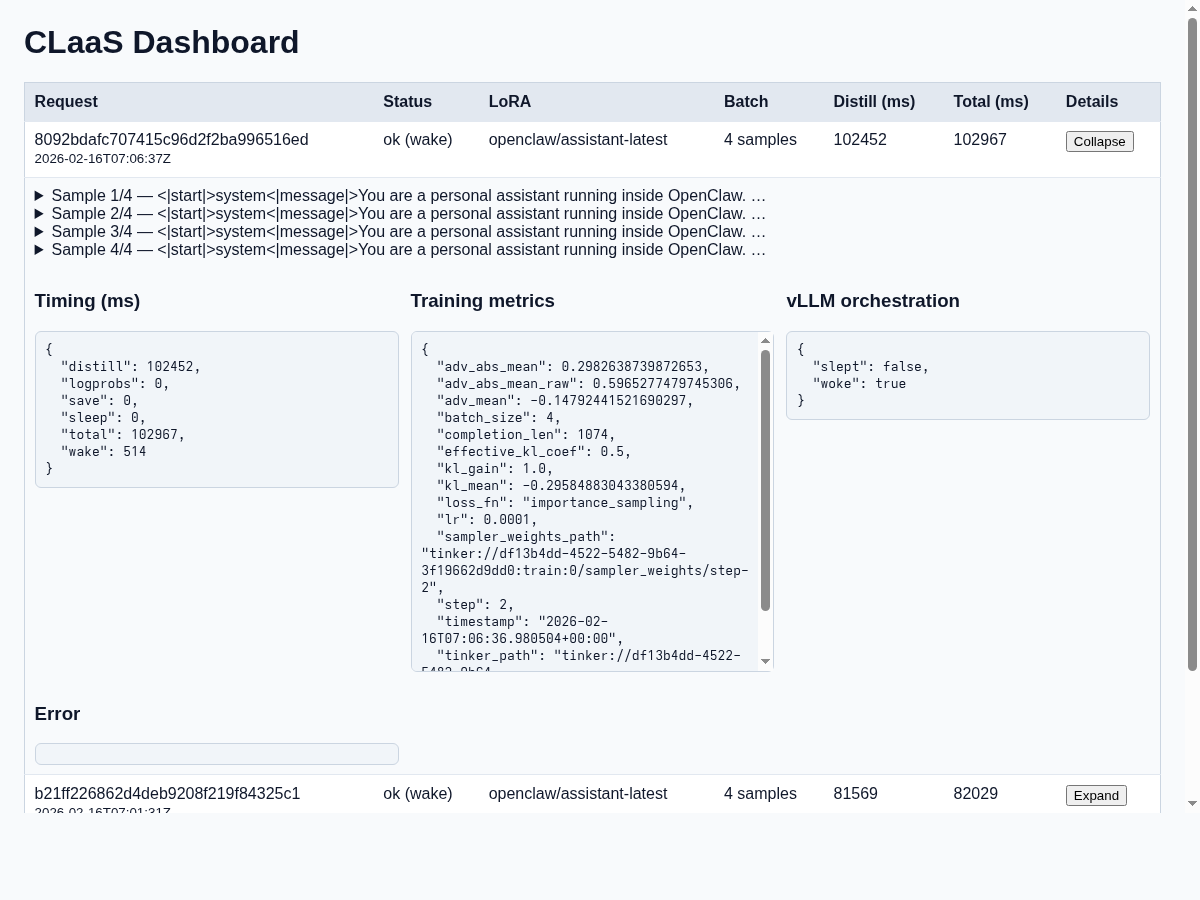
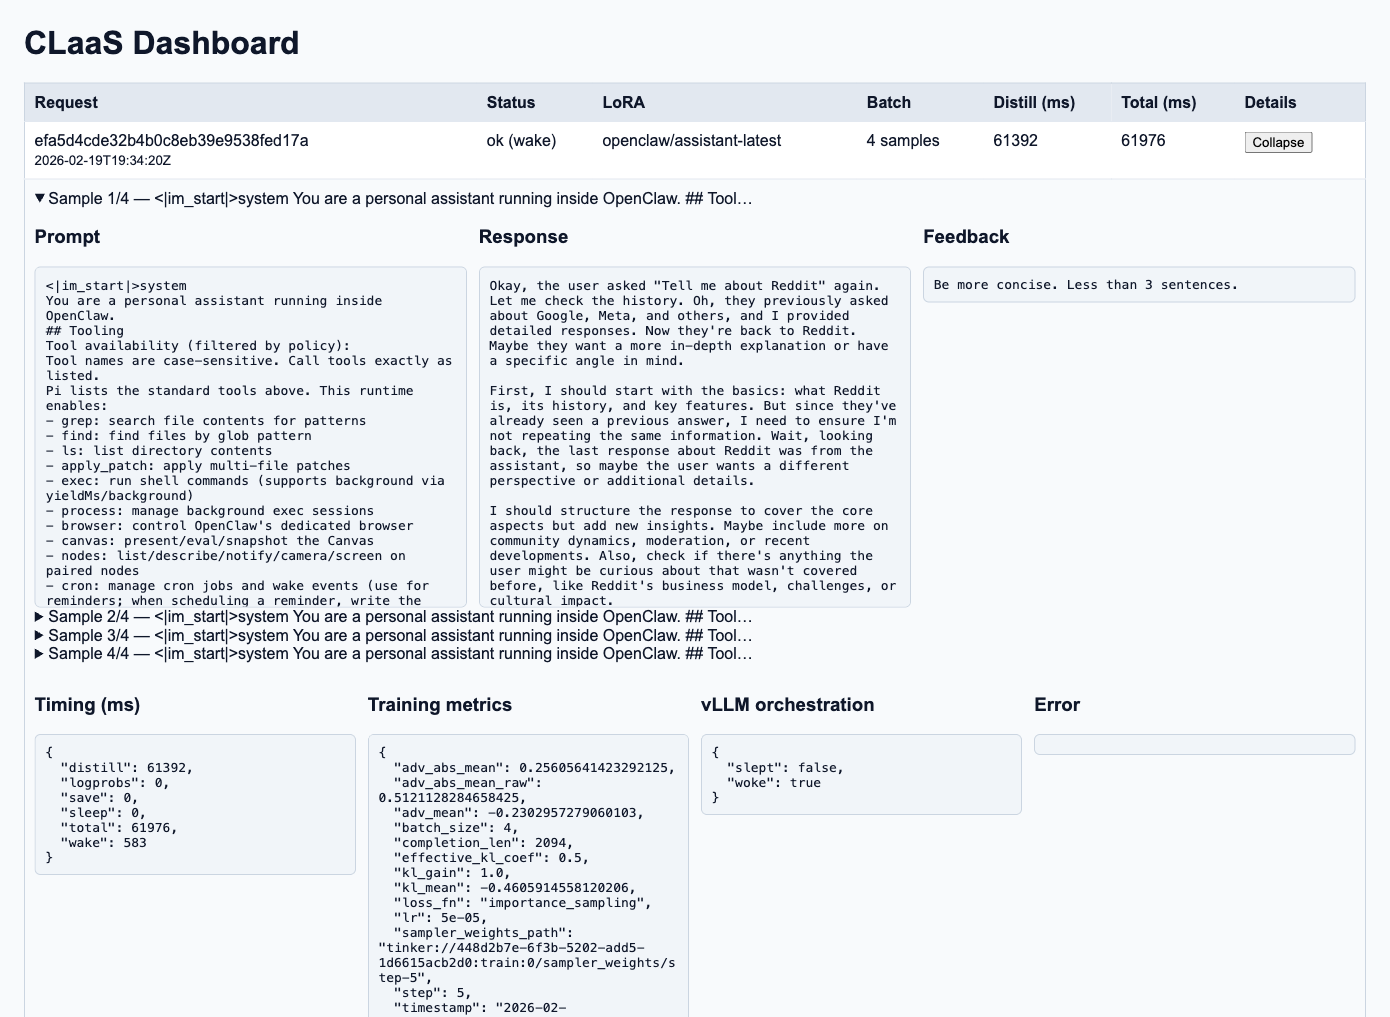
Update README with new images (#17)
## Summary
- Add Telegram demo screenshot (`telegram.png`) to the intro section of
the README
- Update `dashboard.png` with the latest screenshot
- Add eval dashboard image (`eval.png`) and `/v1/eval-dashboard`
endpoint reference below the dashboard section

## Test plan
- [ ] Verify all three images render correctly on GitHub
- [ ] Confirm no broken image links in README

🤖 Generated with [Claude Code](https://claude.com/claude-code)

---------

diff --git a/README.md b/README.md
@@ -6,6 +6,10 @@
 
 Continual learning as-a-service (CLaaS) via self-distillation for OpenClaw. Personalize the model weights of your OpenClaw assistant using text feedback without model collapse.
 
+<p align="center">
+  <img src="assets/telegram.png" alt="Telegram demo" width="400">
+</p>
+
 ## Hybrid engine
 
 The locally hosted request path is driven by a hybrid engine that switches between:
@@ -128,7 +132,15 @@ All configuration is via environment variables. See [`docker/README.md`](docker/
 
 The CLaaS API serves a built-in dashboard at `/v1/dashboard` showing recent feedback batches, training metrics, and timing breakdowns. Each row is a batch — expand it to see individual samples and detailed metrics.
 
-![CLaaS Dashboard](assets/dashboard.png)
+<p align="center">
+  <img src="assets/dashboard.png" alt="CLaaS Dashboard" width="600">
+</p>
+
+The eval dashboard at `/v1/eval-dashboard` displays results from running the eval harness against your model.
+
+<p align="center">
+  <img src="assets/eval.png" alt="Eval Dashboard" width="600">
+</p>
 
 ## References
 
